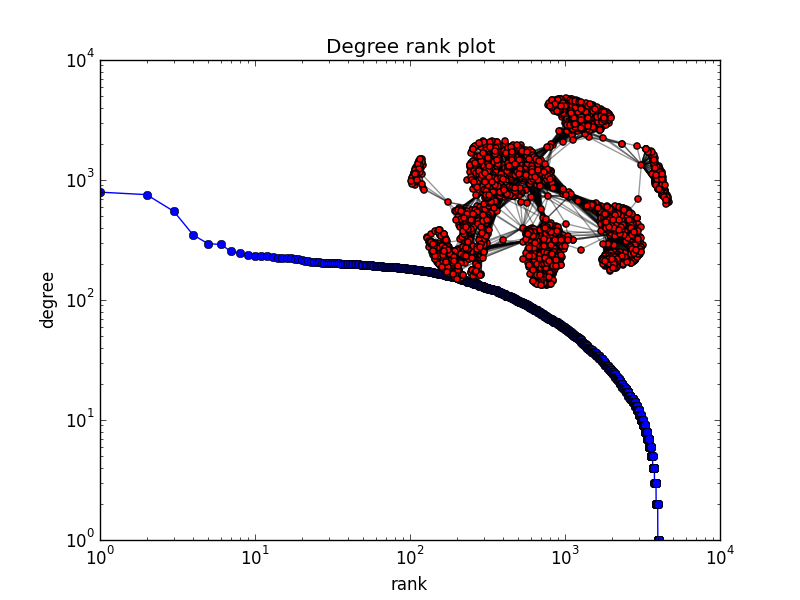
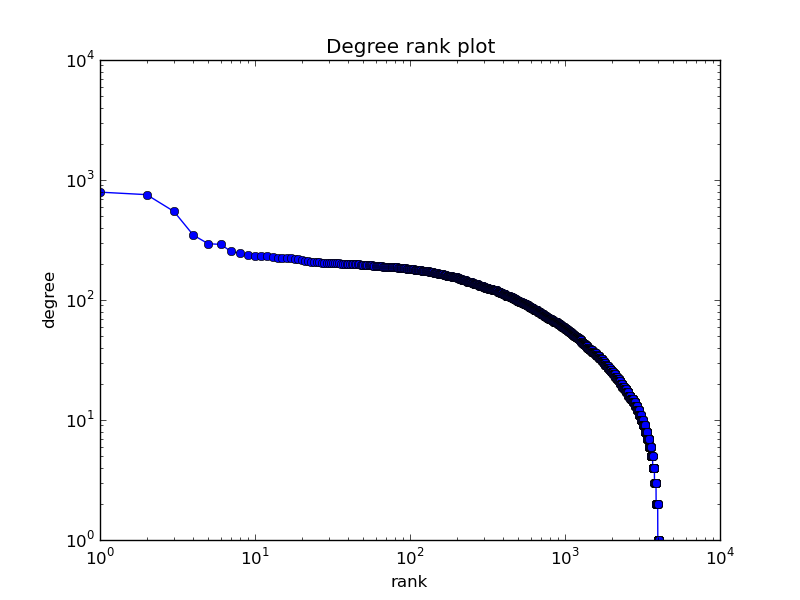
Changed the graphs a bit to make it look better

diff --git a/hw1/main.py b/hw1/main.py
@@ -11,6 +11,7 @@ class DataNetwork:
                        'undirected': nx.Graph,
                        'multidirected': nx.MultiDiGraph,
                        'multiundirected': nx.MultiGraph}
+
     CENTRALITY_DICT = {'in_degree': nx.in_degree_centrality,
                        'out_degree': nx.out_degree_centrality,
                        'degree': nx.degree_centrality,
@@ -56,44 +57,50 @@ class DataNetwork:
             for node in clustering_dict:
                 writer.writerow([node, clustering_dict[node]])
 
-    def degree_histogram(self):
+    def network_graphs(self):
+        # degree histogram
         degree_sequence = sorted(nx.degree(self.G).values(), reverse=True)  # degree sequence
         # print degree_sequence
-        dmax=max(degree_sequence)
+        dmax = max(degree_sequence)
 
         plt.loglog(degree_sequence, 'b-', marker='o')
         plt.title("Degree rank plot")
         plt.ylabel("degree")
         plt.xlabel("rank")
+        plt.savefig(self.data_type + "_degree_histogram.png")
+        plt.close()
 
-        # draw graph in inset
-        plt.axes([0.45, 0.45, 0.45, 0.45])
+        # connected components subgraphs
         Gcc = sorted(nx.connected_component_subgraphs(self.G.to_undirected()), key=len, reverse=True)[0]
         pos = nx.spring_layout(Gcc)
         plt.axis('off')
         nx.draw_networkx_nodes(Gcc, pos, node_size=20)
         nx.draw_networkx_edges(Gcc, pos, alpha=0.4)
 
-        plt.savefig(self.data_type+"_degree_histogram.png")
-        plt.show()
+        plt.savefig(self.data_type + "_connected_subgraphs.png")
+        plt.close()
 
 def main():
     wiki_vote = DataNetwork('dataset/Wiki-Vote.txt', 'wiki', 'directed')
     # wiki_vote.centrality()
     # wiki_vote.clustering_coefficient()
-    facebook = DataNetwork('dataset/facebook_combined.txt','facebook', 'undirected')
+
+    facebook = DataNetwork('dataset/facebook_combined.txt', 'facebook', 'undirected')
     # facebook.centrality()
     # facebook.clustering_coefficient()
-    gnutella = DataNetwork('dataset/p2p-Gnutella08.txt','gnutella', 'undirected')
+
+    gnutella = DataNetwork('dataset/p2p-Gnutella08.txt', 'gnutella', 'undirected')
     # gnutella.centrality()
     # gnutella.clustering_coefficient()
-    grqc = DataNetwork('dataset/CA-GrQc.txt','gr-qc', 'undirected')
+
+    grqc = DataNetwork('dataset/CA-GrQc.txt', 'gr-qc', 'undirected')
     # grqc.centrality()
     # grqc.clustering_coefficient()
-    wiki_vote.degree_histogram()
-    facebook.degree_histogram()
-    grqc.degree_histogram()
-    gnutella.degree_histogram()
+
+    wiki_vote.network_graphs()
+    facebook.network_graphs()
+    grqc.network_graphs()
+    gnutella.network_graphs()
 
 if __name__ == '__main__':
     main()
